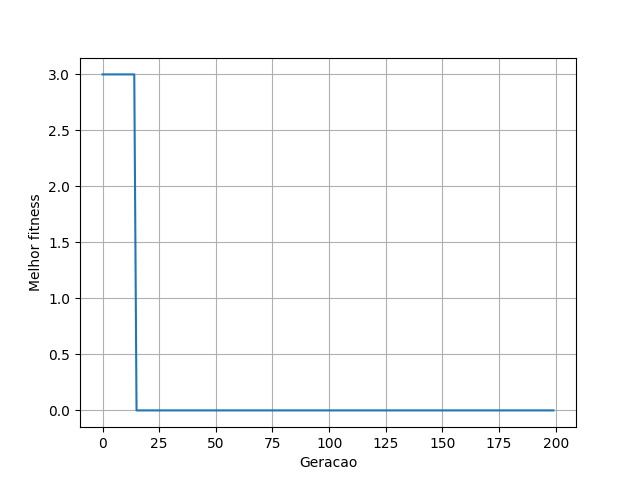
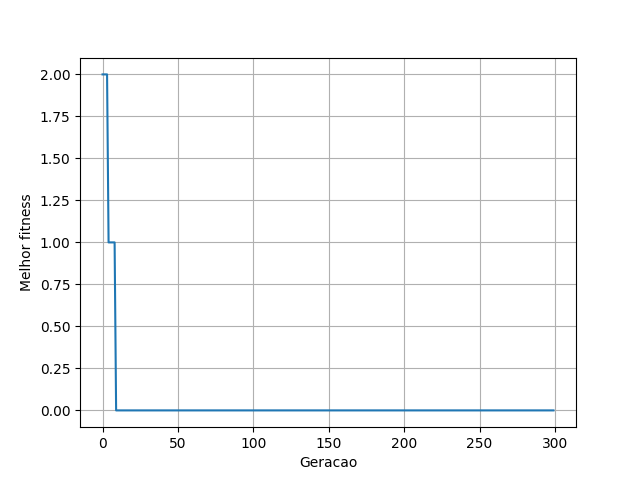
segunda versão do algoritmo com função de testes

diff --git a/n_queens_problem/n_queens.py b/n_queens_problem/n_queens.py
@@ -69,14 +69,24 @@ def crossover(parent_1: Cromossomo, parent_2: Cromossomo, n_children: int = 1):
     return childrens
 
 
-def main(dimesion=8, population_s=50, gerations=200, best=0.5, mutation_p=0.01):
+def main(dimesion=8, population_s=50, gerations=200, best=0.5, mutation_p=0.01, test=False):
+    """
+    Função principal para executar o almoritmo genético e plota o cromossomo com a possível solução para o problema
+    das N-Rainhas.
+    :param dimesion: int  - Dimensão do tabuleiro e número de rainhas
+    :param population_s: int - Tamanho da população de indivíduos
+    :param gerations: int - Número de gerações
+    :param best: float - Taxa de seleção em %
+    :param mutation_p: float - Taxa de mutação em %
+    :param test: bool - Parâmetro para a execução de testes(ignorar)
+    """
     population = population_generate(dimesion, population_s)
     population_selected = selection(population, best)
 
-    resultados = []
+    resultados = [[0, population_selected[0].fitness]]
     best_cromossomo = population_selected[0].fitness
 
-    for _ in range(gerations):
+    for _ in range(1, gerations):
         new_population = []
         for parent_1 in population_selected:
             parent_2 = choice(population_selected)
@@ -94,13 +104,47 @@ def main(dimesion=8, population_s=50, gerations=200, best=0.5, mutation_p=0.01):
         for cromossomo in new_population:
             population_selected.append(cromossomo)
 
-        population_selected = selection(population_selected, best)
-
         resultados.append([_, best_cromossomo])
+        population_selected = selection(population_selected, best)
+    if not test:
+        print(f'{population_selected[0]}')
+        plot_cromossomo(population_selected[0])
+        plot_resultados(resultados)
+    return [resultados, population_selected[0].fitness]
 
-    print(f'{population_selected[0]}')
-    plot_cromossomo(population_selected[0])
-    plot_resultados(resultados)
+
+def tests(dimension: int = 8, population_s: int = 50, gerations: int = 200, best=0.5, mutation_p=0.01, n_tests: int = 10):
+    results_tests = []
+    testes = []
+    geracoes = []
+    geracoes_m = 0
+    bests_fitness = []
+    for test in range(n_tests):
+        teste = main(dimension, population_s, gerations,
+                     best, mutation_p, test=True)
+        best_fitness = teste[1]
+        resultados = teste[0]
+        i = 0
+        best_generation = i
+        for _ in resultados:
+            if resultados[i][1] == best_fitness:
+                best_generation = i
+                break
+            i += 1
+        testes.append(test+1)
+        geracoes.append(best_generation)
+        geracoes_m += best_generation
+        bests_fitness.append(best_fitness)
+        results_tests.append([test+1, best_fitness, best_generation])
+    plt.plot(geracoes, label="Número de Geração")
+    plt.plot(bests_fitness, label="Melhor Fitness das Gerações")
+    media = int(geracoes_m/len(geracoes))
+    plt.legend()
+    plt.grid(True)
+    plt.show()
+    plt.savefig(f'tests_n_{dimension}')
+    print(f'Media de gerações: {media}')
+    return media
 
 
 def plot_resultados(resultados):
@@ -141,6 +185,3 @@ def plot_cromossomo(cromossomo: Cromossomo):
     for j in range(1, cromossomo.dimension+1):
         print("----", end="")
     print("\n", end="")
-
-
-main()

diff --git a/n_queens_problem/tests.py b/n_queens_problem/tests.py
@@ -1,0 +1,12 @@
+from n_queens import tests
+
+tests(dimension=4, population_s=50, gerations=300,
+      best=0.5, mutation_p=0.01, n_tests=100)
+tests(dimension=8, population_s=50, gerations=300,
+      best=0.5, mutation_p=0.01, n_tests=100)
+tests(dimension=16, population_s=50, gerations=300,
+      best=0.5, mutation_p=0.01, n_tests=100)
+tests(dimension=32, population_s=50, gerations=300,
+      best=0.5, mutation_p=0.01, n_tests=100)
+tests(dimension=64, population_s=50, gerations=300,
+      best=0.5, mutation_p=0.01, n_tests=100)

diff --git a/n_queens_problem/main.py b/n_queens_problem/main.py
@@ -1,0 +1,4 @@
+from n_queens import main
+
+
+main(dimension=8)
